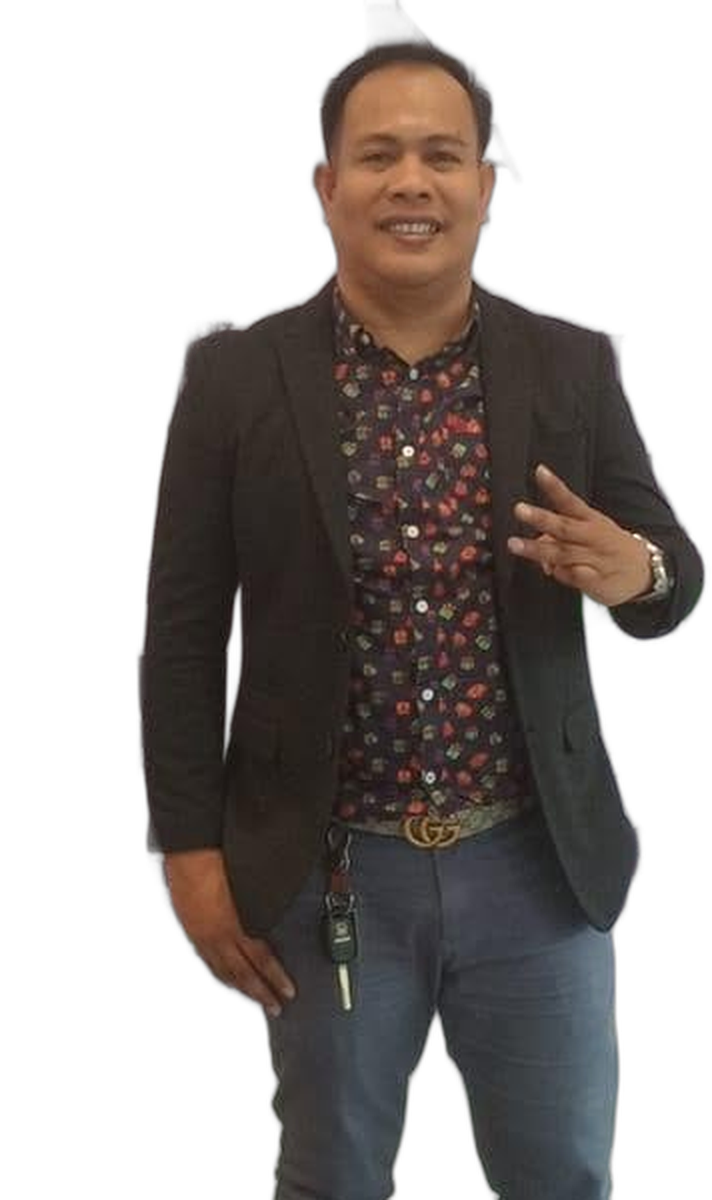
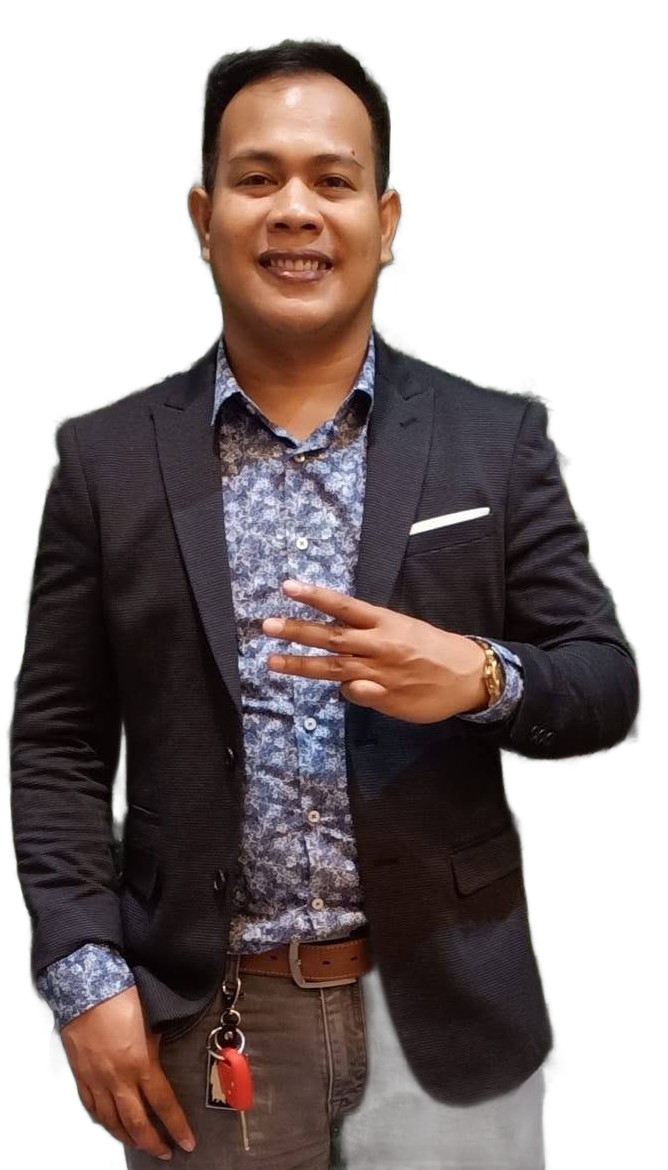
Randy's card: owner's new photo, ELITE SINCE chip
Claude-Session: https://claude.ai/code/session_01WKb7DdX667rhu75Feeypgp

diff --git a/tools/elite-builders-poster/src/roster.ts b/tools/elite-builders-poster/src/roster.ts
@@ -59,7 +59,7 @@ export const ROSTER: Builder[] = [
   { id: "daniel", first: "Daniel", last: "Malicdem", directs: ["2026-10-19"], photo: "builders/daniel.png", face: { cx: 0.481, eye: 0.237, chin: 0.448 } },
   { id: "michelle", first: "Michelle", last: "Escobido", directs: ["2026-11-23"], photo: "builders/michelle.png", face: { cx: 0.518, eye: 0.163, chin: 0.270 } },
   // First direct Alfred Capuyan (Nov 24). Payment still in verification; owner said to treat it as approved for the card (Nov 24).
-  { id: "randy", first: "Randy", last: "Dolorito", directs: ["2026-11-24"], photo: "builders/randy.png", face: { cx: 0.573, eye: 0.223, chin: 0.39 } },
+  { id: "randy", first: "Randy", last: "Dolorito", directs: ["2026-11-24"], photo: "builders/randy.png", face: { cx: 0.442, eye: 0.269, chin: 0.467 } },
 ];
 
 export const starsOn = (b: Builder, date: string) => b.directs.filter((d) => d <= date).length;
@@ -86,7 +86,7 @@ export const POSTERS: PosterSpec[] = [
   // New builders, Nov 23: Michelle's first direct is today; Grace's was Nov 22.
   { id: "2026-11-23-michelle", date: "2026-11-23", builder: "michelle" },
   since("grace", "2026-11-23"),
-  { id: "2026-11-24-randy", date: "2026-11-24", builder: "randy" },
+  since("randy", "2026-11-24"),
 ];
 
 /**
